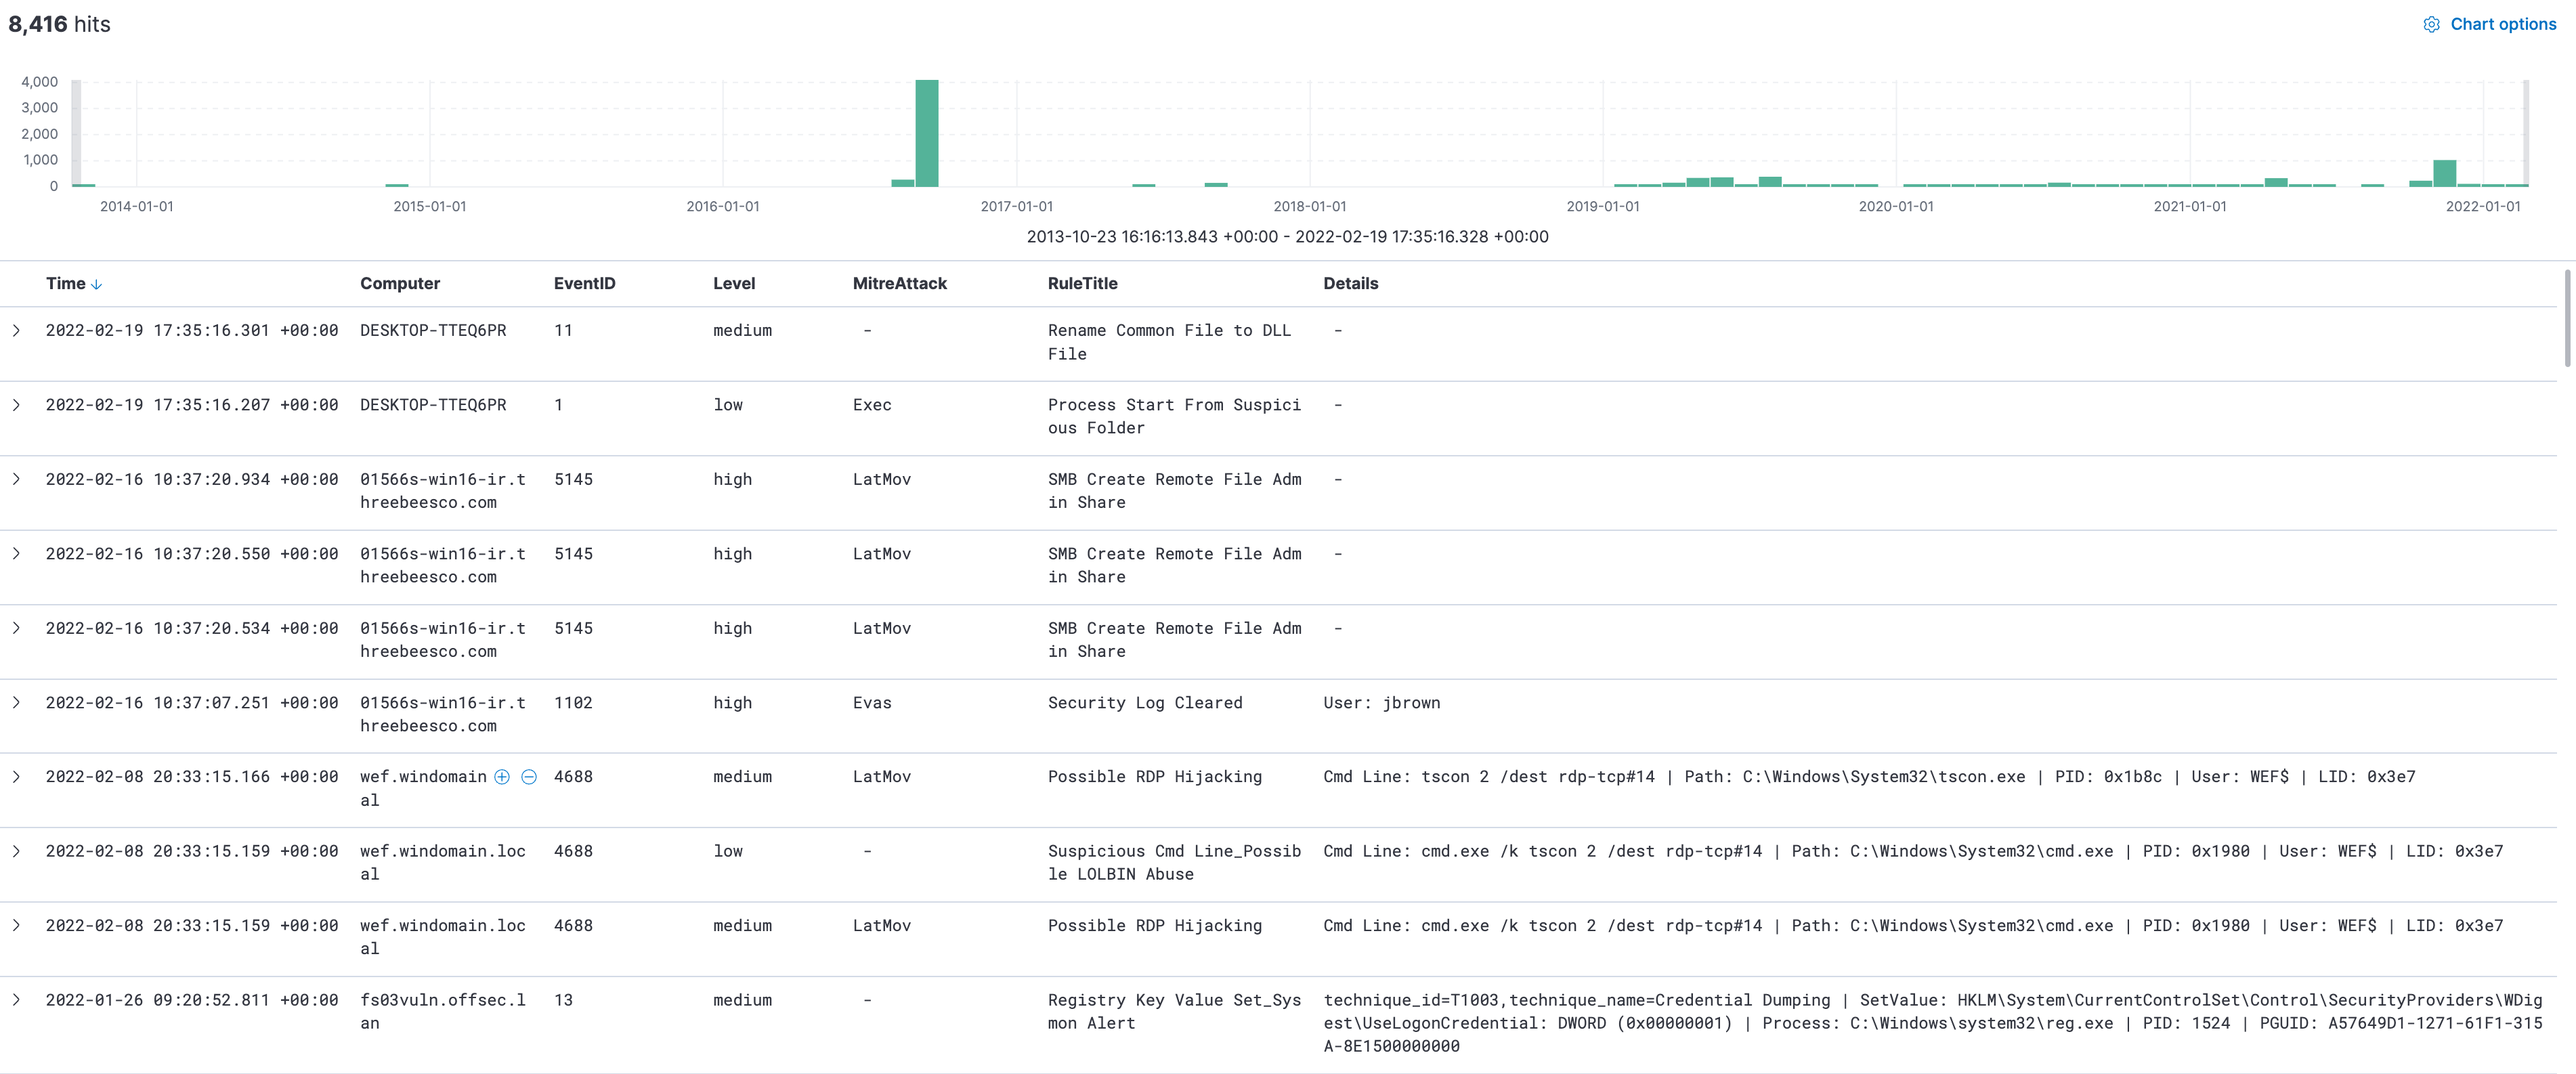
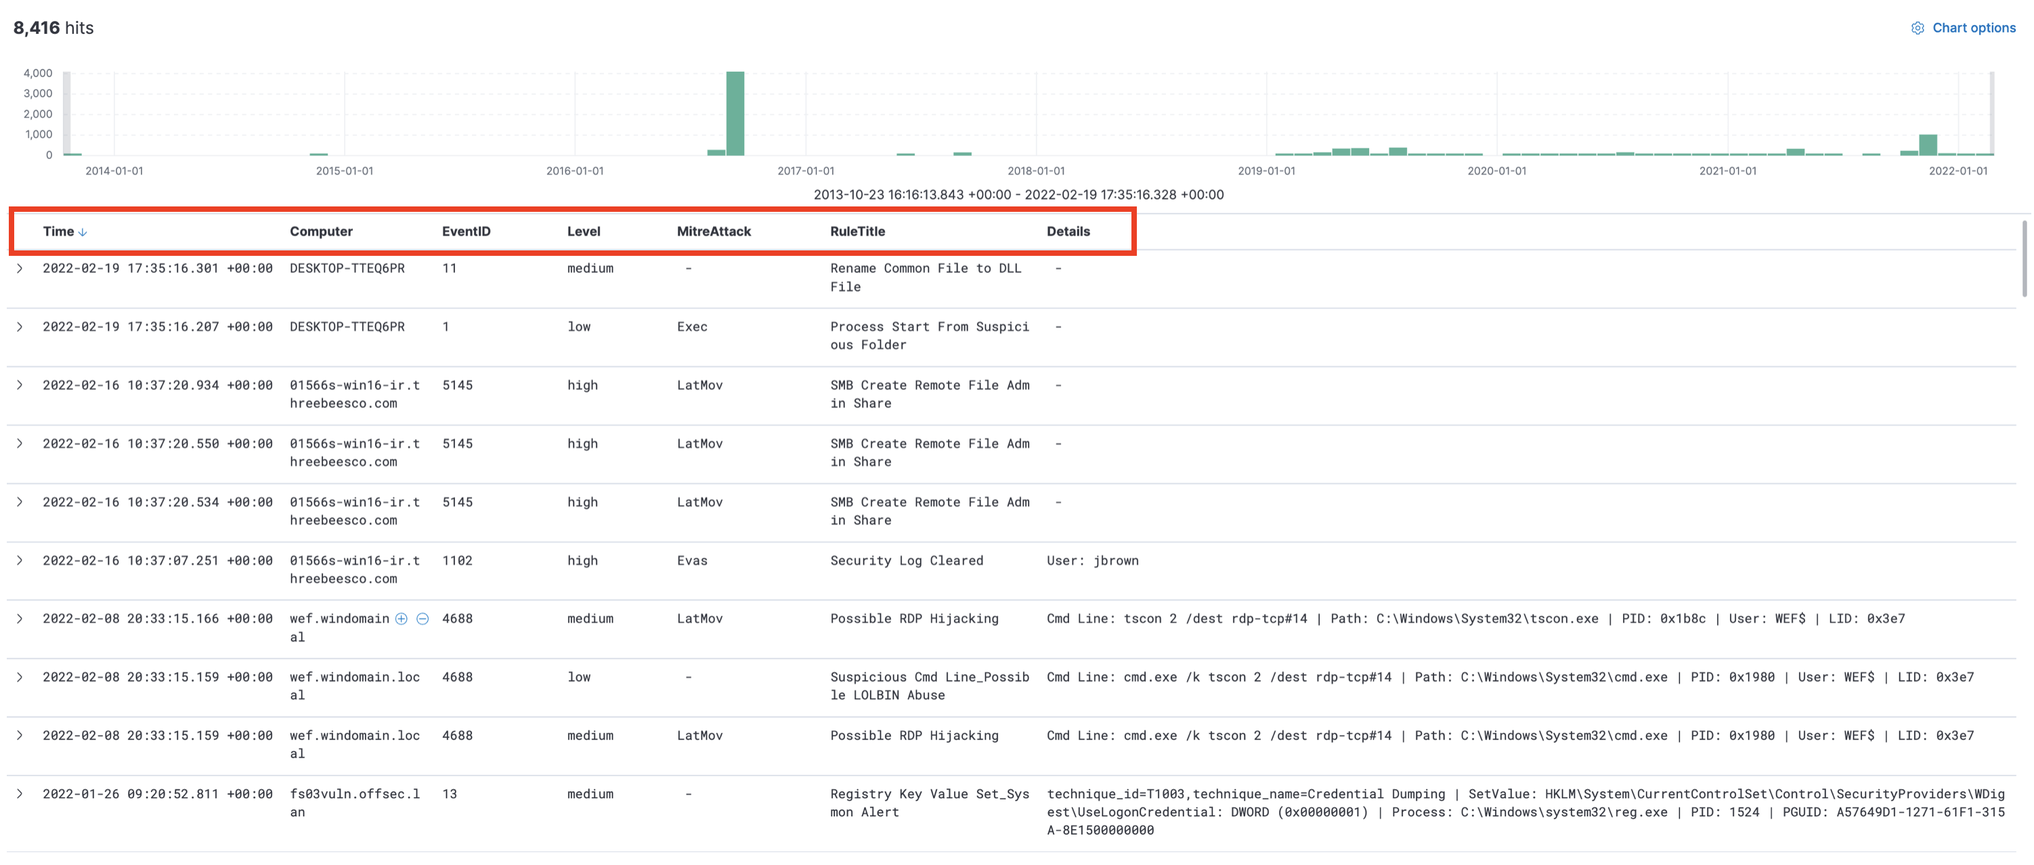
update

diff --git a/doc/ElasticStackImport/ElasticStackImport-English.md b/doc/ElasticStackImport/ElasticStackImport-English.md
@@ -35,7 +35,7 @@ After uploading the CSV file, click `Override settings` to specify the correct t
 
 ![Override Settings](05-OverrideSettings.png)
 
-Perform the following changes and then click `Apply`:
+As shown below, perform the following changes and then click `Apply`:
 
 1. Change `Timestamp format` to `custom`.
 2. Specify the format as `yyyy-MM-dd HH:mm:ss.SSS XXX`
@@ -47,7 +47,7 @@ Now click `Import` in the bottom left-hand corner.
 
 ![CSV Import](07-CSV-Import.png)
 
-Click on `Advanced` and perform the following settings before clicking `Import`:
+As shown below, click on `Advanced` and perform the following settings before clicking `Import`:
 
 1. Title the `Index name` as `evtxlogs-hayabusa`.
 2. Under `Index settings`, add `, "number_of_replicas": 0` so that the index health status does not turn yellow.
@@ -81,7 +81,7 @@ The default Discover view should look similar to this:
 
 You can get an overview of when the events happened and frequency of events by looking at the histogram at top. 
 
-On the left side sidebar, you can select with fields you want to display in columns:
+In the left-side sidebar, you can add fields you want to display in the columns by clicking the plus sign after hovering over a field:
 
 ![Adding Columns](12-AddingColumns.png)
 
@@ -121,7 +121,7 @@ You should now be able to use the dashboard shown below:
 
 ## Future Plans
 
-We plan on creating Hayabusa logstash parsers and dashboard pre-built for SOF-ELK so that all you will need to do is copy the CSV results file to a directory in order to ingest the logs.
+We plan on creating Hayabusa logstash parsers and a dashboard pre-built for SOF-ELK so that all you will need to do is copy the CSV results file to a directory in order to ingest the logs.
 
 ## Acknowledgements
 
